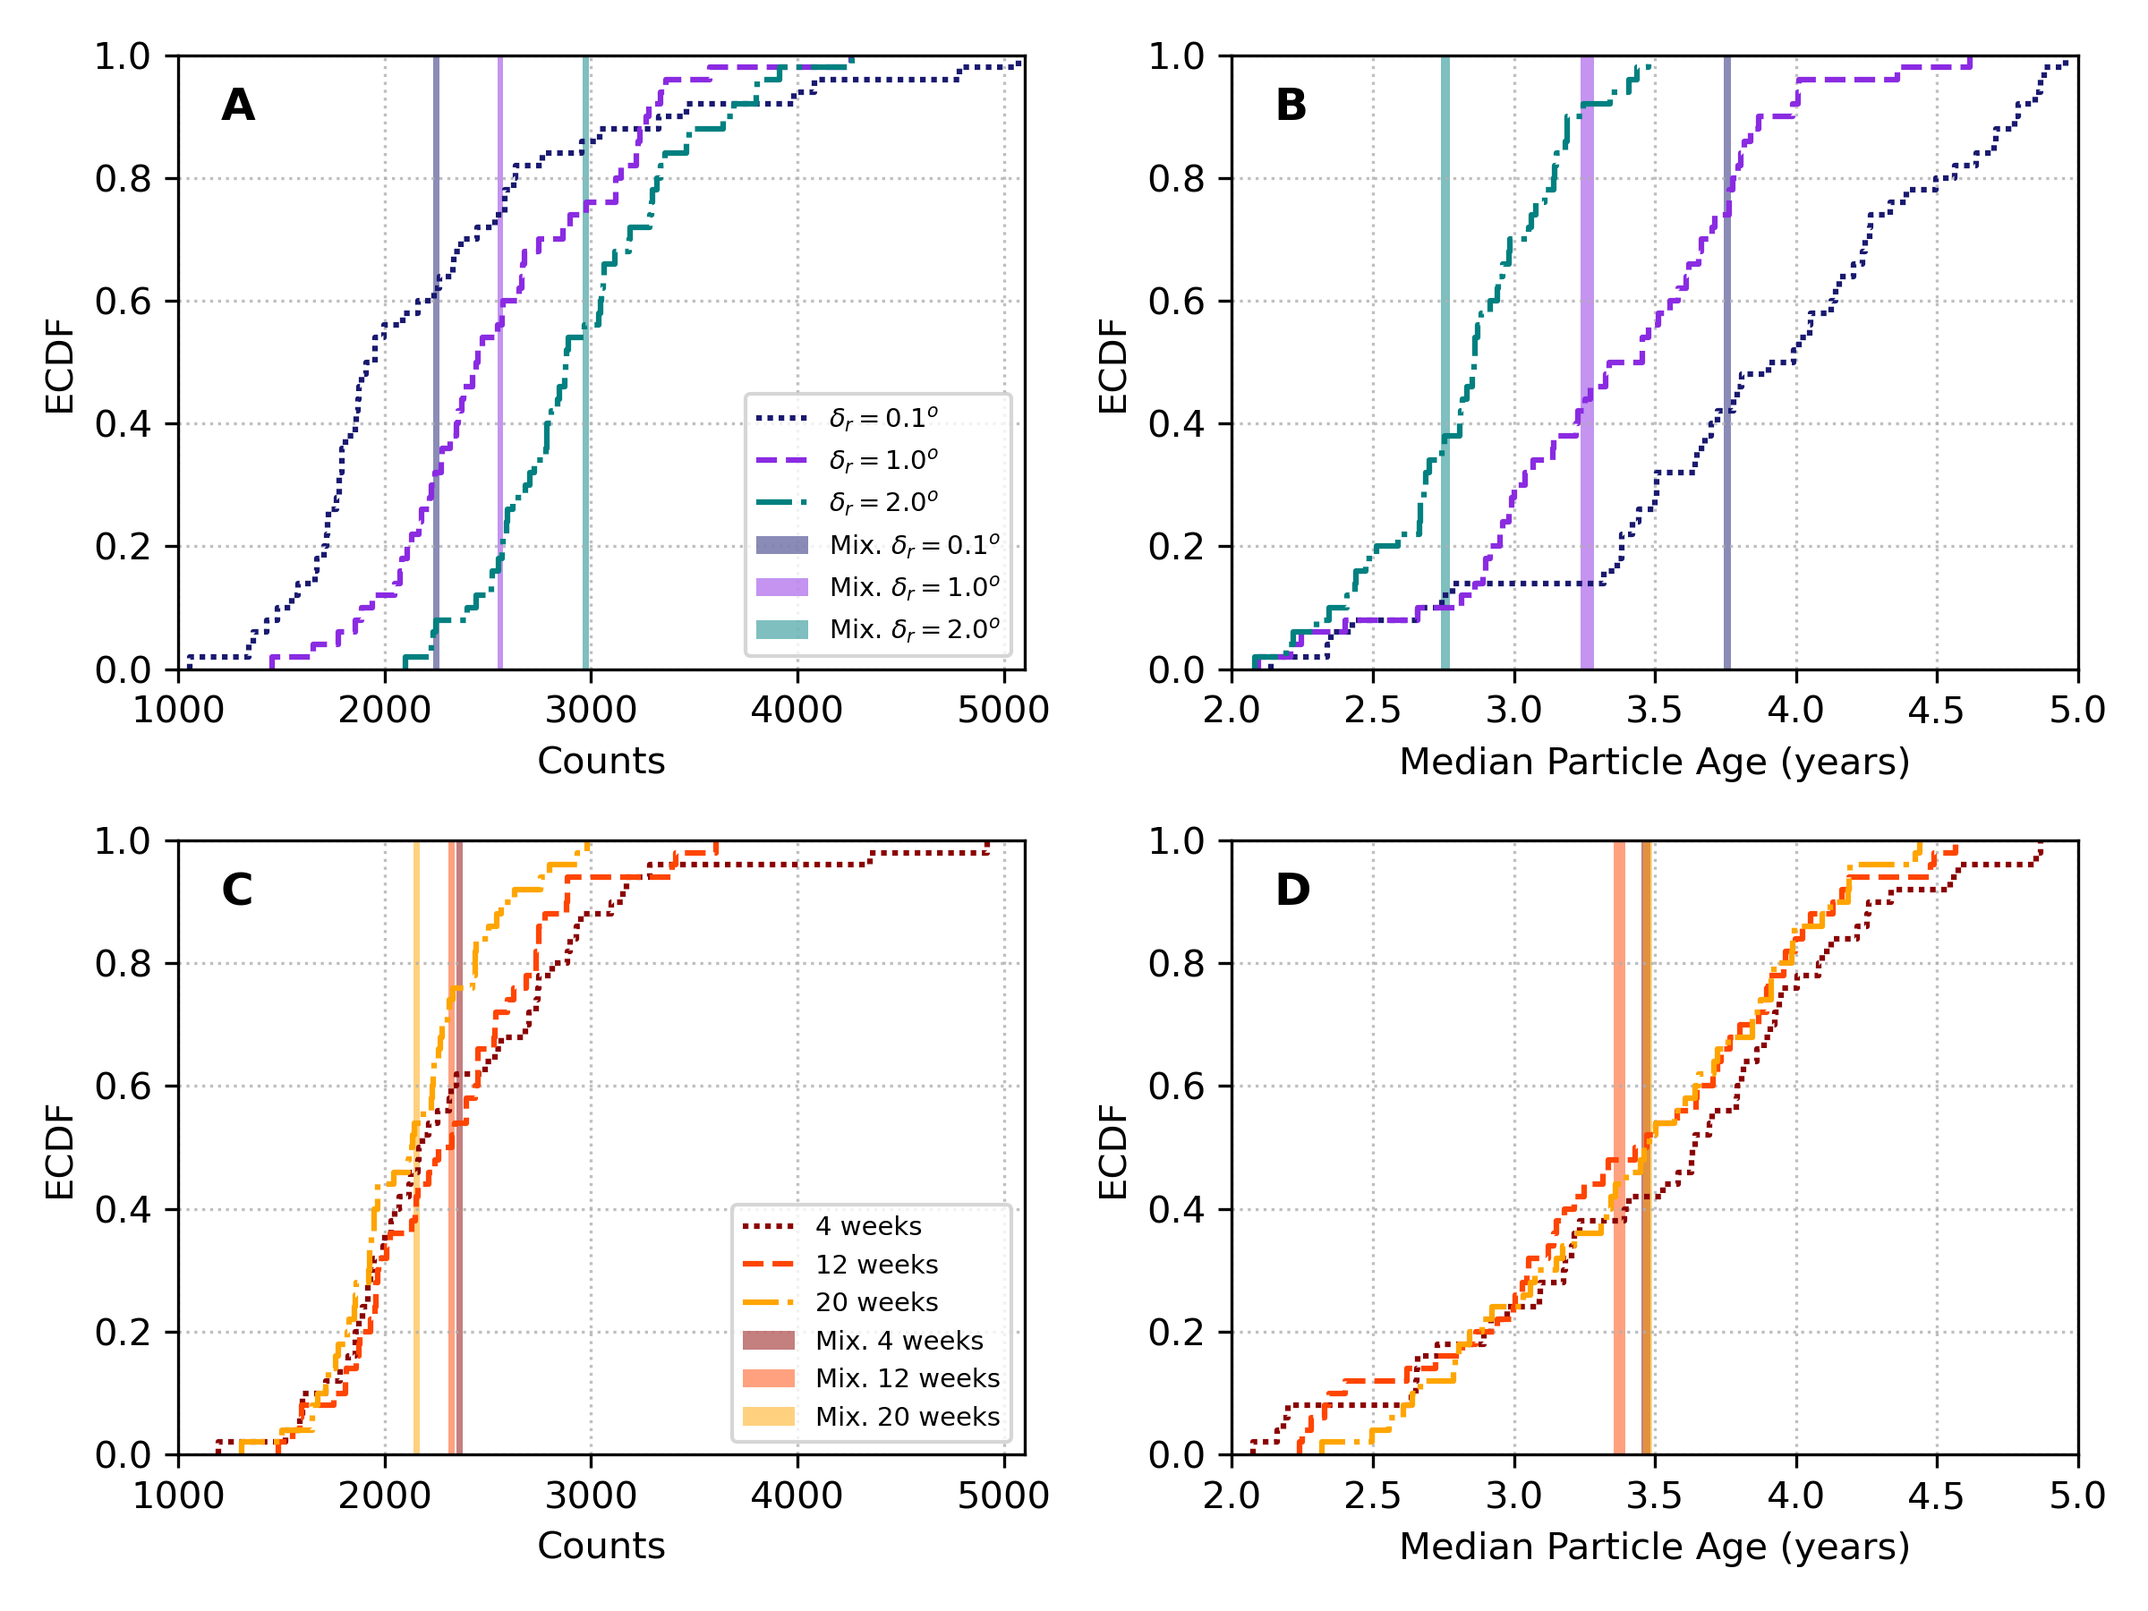
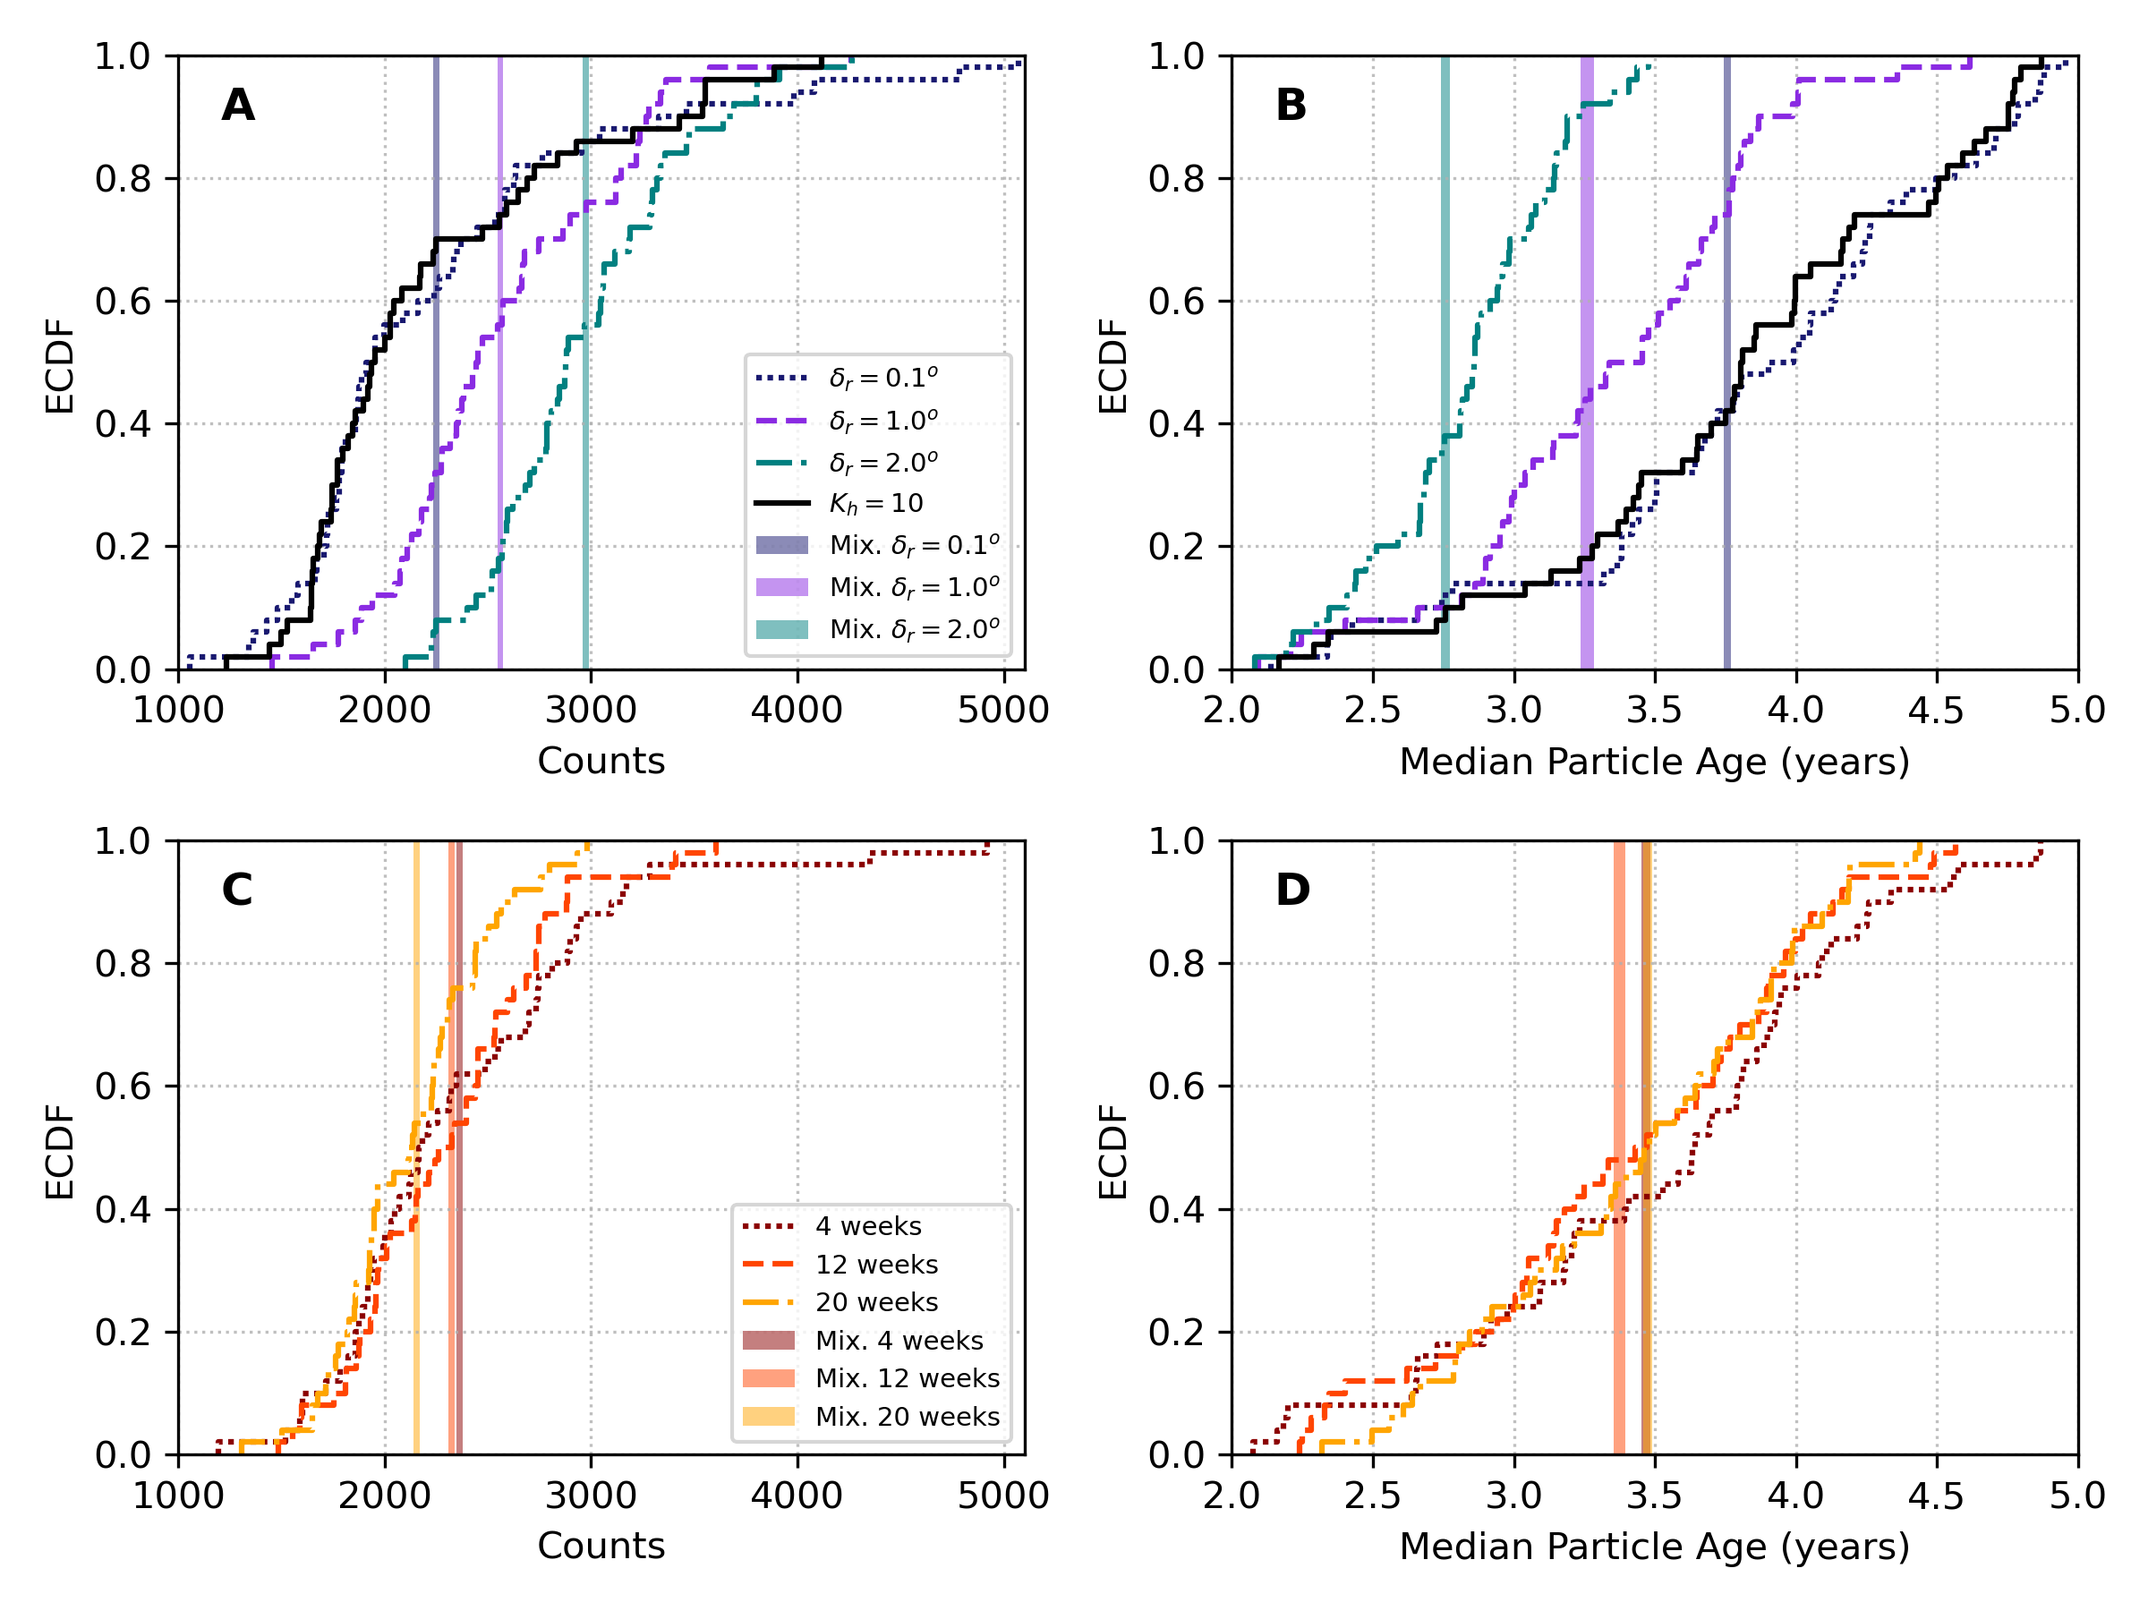
update connectivity plots with diffusion simulation results

diff --git a/plot_scripts/fig3-Connectivity.py b/plot_scripts/fig3-Connectivity.py
@@ -12,7 +12,7 @@ all_mix_space = {}
 all_temp = {}
 all_space = {}
 location = "Cape_Hatteras"
-base_path = "/storage/shared/oceanparcels/output_data/data_Claudio/NEMO_Ensemble/"
+base_path = "/Volumes/Claudio SSD/Ensemble_article_data/"
 
 
 Latitude_limit = None #44 # 44 or 53
@@ -42,6 +42,11 @@ for delta_r in [0.1, 1., 2.]:
     _df = pd.read_csv(df_path)
     all_mix_space[delta_r] = _df
 
+K_h = 10
+df_path = base_path + f"analysis/connectivity/Stats/Stats_Kh_{K_h:01d}" + criterium_string + ".csv"
+all_diff = pd.read_csv(df_path)
+
+
 #%% Plot the percentage of subpolar trajectories for temporal and spatial members
 fig, ax = plt.subplots(2, 3, figsize=(10, 6))
 
@@ -51,6 +56,8 @@ ax = ax.flatten()
 colors_space = ["midnightblue", "blueviolet", "teal"]
 ls_space = [(0, (1, 1)), '--', '-.']
 j = 0
+
+#spatial
 for delta_r in [0.1, 1., 2.]:
     sns.kdeplot(all_space[delta_r]["counts"], ax=ax[0], label=f"$\delta_r = {delta_r}^o$", clip=(0, 7500),
                 fill=False, color=colors_space[j], linestyle=ls_space[j])
@@ -62,6 +69,15 @@ for delta_r in [0.1, 1., 2.]:
                 fill=False, color=colors_space[j], linestyle=ls_space[j])
     j += 1
 
+#diffusion
+sns.kdeplot(all_diff["counts"], ax=ax[0], label=f"$K_h = 10 \ m^2 s^{-1}$",
+            clip=(0, 7500), fill=False, color='black')
+sns.kdeplot(all_diff["median_time"]/365, ax=ax[1], 
+            clip=(0, 6), fill=False, color='black')
+sns.kdeplot(all_diff["median_depth"], ax=ax[2], 
+            clip=(0, 1000), fill=False, color='black')
+
+#temporal
 colors_temp = ["darkred", "orangered", "orange"]
 ls_time = [(0, (1, 1)), '--', '-.', (0, (3, 1, 1, 1, 1, 1))]
 j = 0
@@ -207,179 +223,9 @@ plt.tight_layout()
 plt.savefig("../figs/FigS6_Connect_MIX_tempNspace" + criterium_string + ".png", dpi=300)
 
 ###################################################################
-#%% COMPARISON OF TEMPORAL AND SPATIAL CONNECTIVITY with Mixture
-# Plot the percentage of subpolar trajectories for temporal and spatial members
-fig, ax = plt.subplots(2, 2, figsize=(8, 6))
-ax = ax.flatten()
-# Plot distributions for percentage of subpolar trajectories
-
-colors_space = ["midnightblue", "blueviolet", "teal"]
-ls_space = [(0, (1, 1)), '--', '-.']
-
-for j, delta_r in enumerate([0.1, 1., 2.]):
-    sns.kdeplot(all_space[delta_r]["counts"], ax=ax[0], label=f"$\delta_r = {delta_r}^o$", clip=(0, 7500),
-                fill=False, color=colors_space[j], linestyle=ls_space[j])
-    sns.kdeplot(all_space[delta_r]["median_time"]/365, ax=ax[1], label=f"Spatial dr{delta_r}", clip=(0, 6),
-                fill=False, color=colors_space[j], linestyle=ls_space[j])
 
 
-for j, dr_ref in enumerate([0.1, 1., 2.]):
-    mean_counts = all_mix_space[dr_ref]["counts"].mean()
-    std_counts = all_mix_space[dr_ref]["counts"].std()
 
-    ax[0].fill_betweenx([0, 0.002], mean_counts-std_counts, mean_counts+std_counts,
-                        color=colors_space[j], alpha=0.2, label=f"Mix. $\delta_r = {dr_ref}^o$",
-                        edgecolor='none')
-    ax[0].set_ylim(0, 0.0009)
-    ax[0].set_xlim(0, 6500)
-    
-    mean_median_time = all_mix_space[dr_ref]["median_time"].mean()/365
-    std_median_time = all_mix_space[dr_ref]["median_time"].std()/365
-
-    ax[1].axvline(mean_median_time, color=colors_space[j], linestyle='-', 
-                  label=f"Mix. $\delta_r = {dr_ref}^o$", alpha=0.3)
-    ax[1].set_xlim(1, 6)
-
-colors_temp = ["darkred", "orangered", "orange"]
-ls_time = [(0, (1, 1)), '--', '-.', (0, (3, 1, 1, 1, 1, 1))]
-
-for j, week in enumerate([4, 12, 20]):
-    sns.kdeplot(all_temp[week]["counts"], ax=ax[2], label=f"{week} weeks", clip=(0, 7500),
-                fill=False, color=colors_temp[j], linestyle=ls_time[j])
-    sns.kdeplot(all_temp[week]["median_time"]/365, ax=ax[3], label=f"Temporal W{week}", clip=(0, 6),
-                fill=False, color=colors_temp[j], linestyle=ls_time[j])
-    
-
-for j, dr_ref in enumerate([4, 12, 20]):
-    mean_counts = all_mix_temp[dr_ref]["counts"].mean()
-    std_counts = all_mix_temp[dr_ref]["counts"].std()
-
-    ax[2].fill_betweenx([0, 0.001], mean_counts-std_counts, mean_counts+std_counts,
-                        color=colors_temp[j], alpha=0.2, label=f"Mix. {dr_ref} weeks", edgecolor='none')
-    ax[2].set_ylim(0, 0.001)
-    
-    ax[2].set_ylim(0, 0.001)
-    ax[2].set_xlim(0, 6500)
-    
-    mean_median_time = all_mix_temp[dr_ref]["median_time"].mean()/365
-    std_median_time = all_mix_temp[dr_ref]["median_time"].std()/365
-
-    ax[3].axvline(mean_median_time, color=colors_temp[j], linestyle='-', 
-                  label=f"Mix. $\delta_r = {dr_ref}^o$", alpha=0.3)
-
-    ax[3].set_xlim(1, 6)
-
-# Add labels 'A', 'B', ... for each subplot in the top left corner
-labels = ['A', 'B', 'C', 'D']
-for i, label in enumerate(labels):
-    ax[i].text(0.05, 0.95, label, transform=ax[i].transAxes, fontsize=12, fontweight='bold', va='top', ha='left')
-
-
-ax[0].set_xlim(1500, 3500)
-ax[3].set_xlim(1500, 3500)
-ax[1].set_xlim(2, 4)
-ax[4].set_xlim(2, 4)
-ax[2].set_xlim(0, 60)
-ax[5].set_xlim(0, 60)
-
-ax[0].set_xlabel("Counts")
-ax[0].set_ylabel("Density")
-ax[0].legend(fontsize=7)
-
-ax[1].set_xlabel("Median Particle Age (years)")
-ax[1].set_ylabel("Density")
-
-ax[2].set_xlabel("Counts")
-ax[2].set_ylabel("Density")
-ax[2].legend(fontsize=7)
-
-ax[3].set_xlabel("Median Particle Age (years)")
-ax[3].set_ylabel("Density")
-
-plt.tight_layout()
-# save the figure
-# plt.savefig("../figs/Figx-Connect_Comparisson" + criterium_string + ".png", dpi=300)
-
-#%% ECDFs of the counts and median time for temporal and spatial members
-# 
-fig, ax = plt.subplots(2, 2, figsize=(8, 6))
-ax = ax.flatten()
-# Plot CDFs for percentage of subpolar trajectories
-
-colors_space = ["midnightblue", "blueviolet", "teal"]
-ls_space = [(0, (1, 1)), '--', '-.']
-
-for j, delta_r in enumerate([0.1, 1., 2.]):
-    sns.ecdfplot(all_space[delta_r]["counts"], ax=ax[0], label=f"$\delta_r = {delta_r}^o$", 
-                 color=colors_space[j], linestyle=ls_space[j])
-    sns.ecdfplot(all_space[delta_r]["median_time"]/365, ax=ax[1], label=f"Spatial dr{delta_r}", 
-                 color=colors_space[j], linestyle=ls_space[j])
-
-for j, dr_ref in enumerate([0.1, 1., 2.]):
-    mean_counts = all_mix_space[dr_ref]["counts"].mean()
-    std_counts = all_mix_space[dr_ref]["counts"].std()
-
-    ax[0].fill_betweenx([0, 1], mean_counts-std_counts, mean_counts+std_counts,
-                        color=colors_space[j], alpha=0.3, label=f"Mix. $\delta_r = {dr_ref}^o$",
-                        edgecolor='none')
-    ax[0].set_xlim(0, 6500)
-    
-    mean_median_time = all_mix_space[dr_ref]["median_time"].mean()/365
-    std_median_time = all_mix_space[dr_ref]["median_time"].std()/365
-
-    ax[1].axvline(mean_median_time, color=colors_space[j], linestyle='-', 
-                  label=f"Mix. $\delta_r = {dr_ref}^o$", alpha=0.3)
-    ax[1].set_xlim(1, 6)
-
-colors_temp = ["darkred", "orangered", "orange"]
-ls_time = [(0, (1, 1)), '--', '-.', (0, (3, 1, 1, 1, 1, 1))]
-
-for j, week in enumerate([4, 12, 20]):
-    sns.ecdfplot(all_temp[week]["counts"], ax=ax[2], label=f"{week} weeks", color=colors_temp[j], linestyle=ls_time[j])
-    sns.ecdfplot(all_temp[week]["median_time"]/365, ax=ax[3], label=f"Temporal W{week}", color=colors_temp[j], linestyle=ls_time[j])
-
-for j, dr_ref in enumerate([4, 12, 20]):
-    mean_counts = all_mix_temp[dr_ref]["counts"].mean()
-    std_counts = all_mix_temp[dr_ref]["counts"].std()
-
-    ax[2].fill_betweenx([0, 1], mean_counts-std_counts, mean_counts+std_counts,
-                        color=colors_temp[j], alpha=0.3, label=f"Mix. {dr_ref} weeks", edgecolor='none')
-    ax[2].set_xlim(0, 6500)
-    
-    mean_median_time = all_mix_temp[dr_ref]["median_time"].mean()/365
-    std_median_time = all_mix_temp[dr_ref]["median_time"].std()/365
-
-    ax[3].axvline(mean_median_time, color=colors_temp[j], linestyle='-', 
-                  label=f"Mix. $\delta_r = {dr_ref}^o$", alpha=0.3)
-    ax[3].set_xlim(1, 6)
-
-# Add labels 'A', 'B', 'C', 'D' for each subplot in the top left corner
-labels = ['A', 'B', 'C', 'D']
-for i, label in enumerate(labels):
-    ax[i].text(0.05, 0.95, label, transform=ax[i].transAxes, fontsize=12, fontweight='bold', va='top', ha='left')
-
-ax[0].set_xlabel("Counts")
-ax[0].set_ylabel("ECDF")
-ax[0].legend(fontsize=7)
-ax[0].grid(True)
-
-ax[1].set_xlabel("Median Particle Age (years)")
-ax[1].set_ylabel("ECDF")
-ax[1].grid(True)
-
-ax[2].set_xlabel("Counts")
-ax[2].set_ylabel("ECDF")
-ax[2].legend(fontsize=7, loc='lower right')
-ax[2].grid(True)
-
-ax[3].set_xlabel("Median Particle Age (years)")
-ax[3].set_ylabel("ECDF")
-ax[3].grid(True)
-
-plt.tight_layout()
-# save the figure
-
-# plt.savefig("../figs/Fig3_ECDF_Comparisson" + criterium_string + ".png", dpi=300)
 
 #%% ECDFs of the counts and mean and 99% confidence interval for temporal and spatial members
 # 
@@ -395,6 +241,13 @@ for j, delta_r in enumerate([0.1, 1., 2.]):
                  color=colors_space[j], linestyle=ls_space[j])
     sns.ecdfplot(all_space[delta_r]["median_time"]/365, ax=ax[1], label=f"Spatial dr{delta_r}", 
                  color=colors_space[j], linestyle=ls_space[j])
+
+#diffusion
+sns.ecdfplot(all_diff["counts"], ax=ax[0], label=f"$K_h = 10 $",
+             color='black', linestyle='-')
+sns.ecdfplot(all_diff["median_time"]/365, ax=ax[1], label=f"Spatial dr{delta_r}", 
+                 color='black', linestyle='-')
+
 
 for j, dr_ref in enumerate([0.1, 1., 2.]):
     mean_counts = all_mix_space[dr_ref]["counts"].mean()
@@ -463,125 +316,7 @@ plt.tight_layout()
 
 plt.savefig("../figs/Fig3_ECDF_Comparisson" + criterium_string + ".png", dpi=300)
 
-#%% COMpute ECDF curver for all_temp and all_space with and ecdf function
-def ecdf(data):
-    x = np.sort(data)
-    y = np.arange(1, len(x)+1) / len(x)
-    return x, y
 
-probss = {}
-
-for dr_ref in [0.1, 1., 2.]:
-    mean = all_mix_space[dr_ref]["counts"].mean()
-    
-    p = np.zeros(6)
-    
-    for i, delta_r in enumerate([0.1, 1., 2.]):
-        X, Y = ecdf(all_space[delta_r]["counts"])
-
-        idx = np.where(X >= mean)[0][0]
-        
-        p[i] = Y[idx]
-        
-    for i, week in enumerate([4, 12, 20], start=3):
-        X, Y = ecdf(all_temp[week]["counts"])
-
-        idx = np.where(X >= mean)[0][0]
-        
-        p[i] = Y[idx]
-        
-    probss[f'Mix $\delta_r = {dr_ref}^o$'] = p
-    
-for week_ref in [4, 12, 20]:
-    mean = all_mix_temp[week_ref]["counts"].mean()
-    
-    p = np.zeros(6)
-    
-    for i, delta_r in enumerate([0.1, 1., 2.]):
-        X, Y = ecdf(all_space[delta_r]["counts"])
-
-        idx = np.where(X >= mean)[0][0]
-        
-        p[i] = Y[idx]
-        
-    for i, week in enumerate([4, 12, 20], start=3):
-        X, Y = ecdf(all_temp[week]["counts"])
-
-        idx = np.where(X >= mean)[0][0]
-        
-        p[i] = Y[idx]
-        
-    probss[f'Mix {week_ref} weeks'] = p
-
-DF = pd.DataFrame(probss)
-DF.set_index([[r'$\delta_r = 0.1^o$', r'$\delta_r = 1^o$',  r'$\delta_r = 2^o$', '4 weeks', '12 weeks', '20 weeks']], inplace=True)
-
-fig, ax = plt.subplots(figsize=(6, 5))
-
-cmmap = "Purples_r"
-
-sns.heatmap(DF, annot=True, fmt=".2f", cmap=cmmap, ax=ax, cbar=True, vmin=0)
-
-# Rotate y tick labels 90 degrees
-ax.set_yticklabels(ax.get_yticklabels(), rotation=90, ha='center', fontsize=9)
-# Rotate x tick labels 15 degrees
-ax.set_xticklabels(ax.get_xticklabels(), rotation=15, ha='center', fontsize=9)
-
-# Add colorbar label
-cbar = ax.collections[0].colorbar
-cbar.set_label('Probability of having fewer particles than the Mixture')
-
-plt.tight_layout()
-plt.show()
-# fig.savefig(f"../figs/Figx-ECDF_Probs.png", dpi=300)
-#%% Average the temporal and spatial members and mixtures and put the values in a dataframe
-
-zero_counts = np.zeros(3*4)
-types = []
-
-average_mean_time = np.zeros(3*4)
-average_min_time = np.zeros(3*4)
-average_mean_depth = np.zeros(3*4)
-
-i = 0
-for week in [4, 12, 20]:
-    zero_counts[i] = (all_temp[week]['counts'] == 0).sum()
-    types.append(f"{week} weeks")
-    average_mean_time[i] = all_temp[week]["mean_time"].mean()
-    average_min_time[i] = all_temp[week]["min_time"].mean()
-    average_mean_depth[i] = all_temp[week]["mean_depth"].mean()
-    i+=1
-
-for week in [4, 12, 20]:
-    zero_counts[i] = (all_mix_temp[week]['counts'] == 0).sum()
-    types.append(f"Mixture {week} weeks")
-    average_mean_time[i] = all_mix_temp[week]["mean_time"].mean()
-    average_min_time[i] = all_mix_temp[week]["min_time"].mean()
-    average_mean_depth[i] = all_mix_temp[week]["mean_depth"].mean()
-    i+=1
-
-for delta_r in [0.1, 1., 2.]:
-    zero_counts[i] = (all_space[delta_r]['counts'] == 0).sum()
-    types.append(f"dr{delta_r}")
-    average_mean_time[i] = all_space[delta_r]["mean_time"].mean()
-    average_min_time[i] = all_space[delta_r]["min_time"].mean()
-    average_mean_depth[i] = all_space[delta_r]["mean_depth"].mean()
-    i+=1
-    
-for delta_r in [0.1, 1., 2.]:
-    zero_counts[i] = (all_mix_space[delta_r]['counts'] == 0).sum()
-    types.append(f"Mixture dr{delta_r}")
-    average_mean_time[i] = all_mix_space[delta_r]["mean_time"].mean()
-    average_min_time[i] = all_mix_space[delta_r]["min_time"].mean()
-    average_mean_depth[i] = all_mix_space[delta_r]["mean_depth"].mean()
-    i+=1
-    
-# Create the dataframe
-average_df = pd.DataFrame({"Type": types, "Zero_counts": zero_counts, "AVG_Mean_time": average_mean_time,
-                            "AVG_Min_time": average_min_time, "AVG_Mean_depth": average_mean_depth})
-
-
-#%% compute the KDE of the counts for the temporal and spatial members
 # then compute the entropy of the KDE. No plotting here
     
 # Compute the entropy of the KDE
